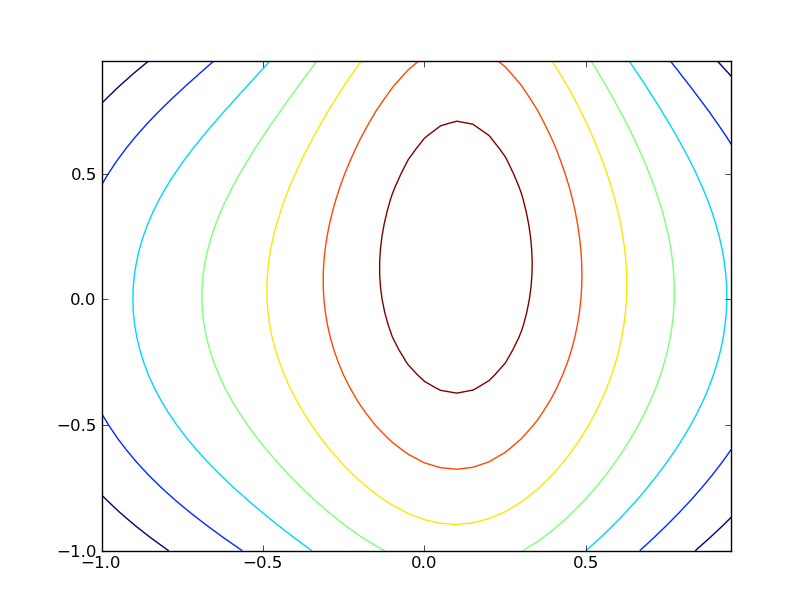
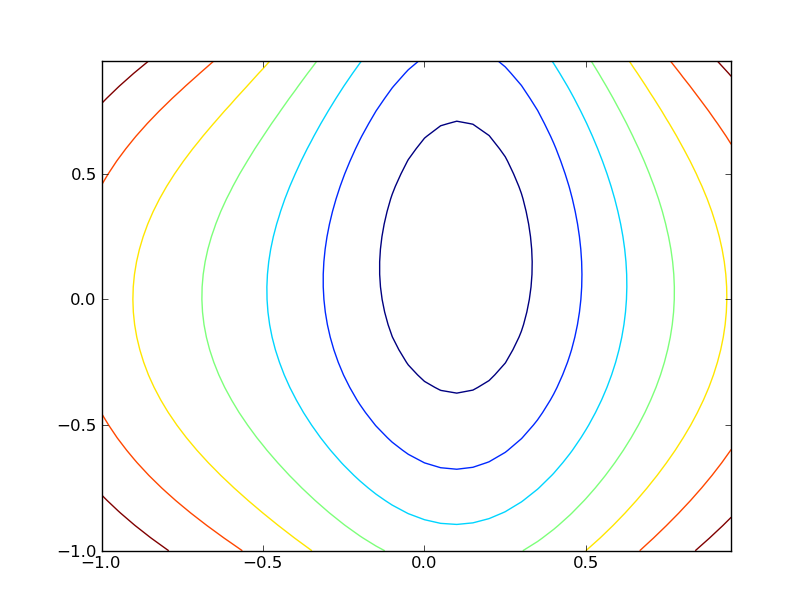
Fixing signs

diff --git a/bad_online_learning.py b/bad_online_learning.py
@@ -12,7 +12,7 @@ import numpy
 X = numpy.arange(-1, 1, 0.05)
 Y = numpy.arange(-1, 1, 0.05)
 X, Y = numpy.meshgrid(X, Y)
-Z = -X**2 - Y**2 + numpy.exp(-4*X**2+0.3*Y+X)
+Z = X**2 + Y**2 - numpy.exp(-4*X**2+0.3*Y+X)
 
 plt.figure()
 CS = plt.contour(X, Y, Z)
